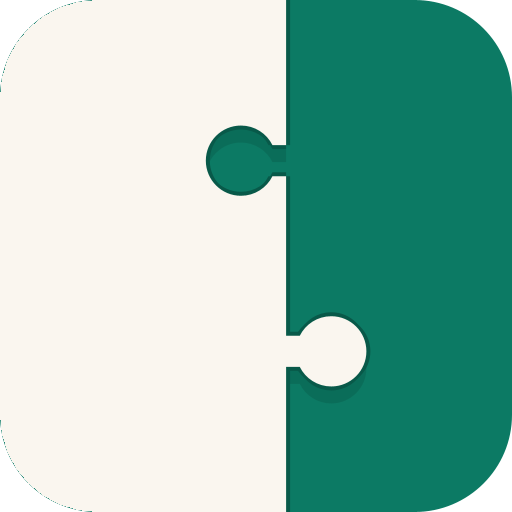
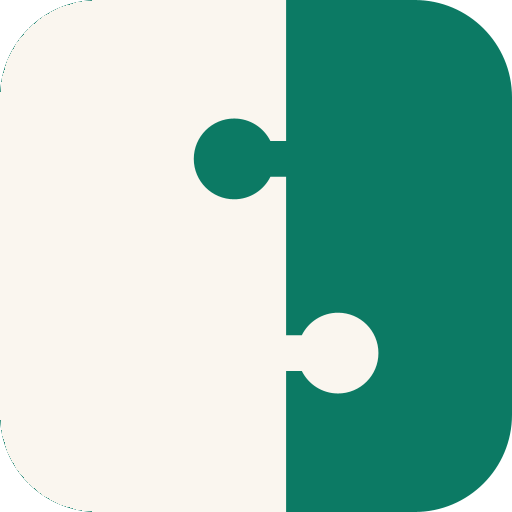
flat seam, bigger equal knobs
Shadow and halo passes removed so white matches flat green. Both knobs at scale 1.15 with equal gaps kept exact by formula consts. Probes green.

Changed region(s): [[0.375, 0.0, 0.75, 1.0]]

diff --git a/tools/src/main/kotlin/io/github/muntasimulhaque/puzzlet/tools/MakeIcons.kt b/tools/src/main/kotlin/io/github/muntasimulhaque/puzzlet/tools/MakeIcons.kt
@@ -1,6 +1,5 @@
 package io.github.muntasimulhaque.puzzlet.tools
 
-import java.awt.AlphaComposite
 import java.awt.Color
 import java.awt.Graphics2D
 import java.awt.RenderingHints
@@ -53,17 +52,19 @@ object IconDesign {
 
     /**
      * The seam, unit space: boundary x, hero knob cy, socket cy. Both
-     * knobs share one size, and the three gaps read equal: tile top to
-     * socket head, socket head to knob head, knob head to tile bottom.
+     * knobs share one size and one scale, and the three gaps read equal:
+     * tile top to socket head, socket head to knob head, knob head down.
      */
     const val SEAM_X = 0.56
-    const val KNOB_Y = 0.69
-    const val SOCKET_Y = 0.31
     // Green-approved bite numbers, frozen. The white hero is this exact
     // shape mirrored, congruent, so the pair matches by construction.
     const val BITE_W = 0.062
     const val BITE_D = 0.075
     const val BITE_R = 0.070
+    /** Both knobs wear the bite shape at this scale: a little bigger. */
+    const val KS = 1.15
+    const val KNOB_Y = (2.0 + BITE_R * KS) / 3.0
+    const val SOCKET_Y = (1.0 - BITE_R * KS) / 3.0
 }
 
 /**
@@ -72,6 +73,7 @@ object IconDesign {
  */
 fun socketBite(): Area {
     val t = AffineTransform.getTranslateInstance(IconDesign.SEAM_X, IconDesign.SOCKET_Y)
+    t.concatenate(AffineTransform.getScaleInstance(IconDesign.KS, IconDesign.KS))
     return biteUnit().createTransformedArea(t)
 }
 
@@ -84,11 +86,11 @@ private fun biteUnit(): Area {
     return bite
 }
 
-/** The white hero: the green bite mirrored east, congruent. Same shape. */
+/** The white hero: the green bite mirrored east at the same scale. */
 fun heroKnob(): Area {
     val d = IconDesign
     val t = AffineTransform.getTranslateInstance(d.SEAM_X, d.KNOB_Y)
-    t.concatenate(AffineTransform.getScaleInstance(-1.0, 1.0))
+    t.concatenate(AffineTransform.getScaleInstance(-d.KS, d.KS))
     return biteUnit().createTransformedArea(t)
 }
 
@@ -124,8 +126,8 @@ private fun unitTransform(size: Int, span: Double): AffineTransform {
     return t
 }
 
-/** One icon layer: full art tile, bare foreground, or white mono. */
-internal fun paintLayer(size: Int, layer: Layer, cornerFraction: Double): BufferedImage { // flat
+/** One icon layer: flat tile, bare foreground, or white mono. */
+internal fun paintLayer(size: Int, layer: Layer, cornerFraction: Double): BufferedImage {
     val d = IconDesign
     val image = BufferedImage(size, size, BufferedImage.TYPE_INT_ARGB)
     val g = beginIcon(image)
@@ -139,35 +141,19 @@ internal fun paintLayer(size: Int, layer: Layer, cornerFraction: Double): Buffer
     val t = unitTransform(size, span)
     val region = seamRegion().createTransformedArea(t)
     val fillArgb = if (layer == Layer.MONO) d.WHITE else d.PAPER
-    if (layer != Layer.MONO) {
-        val down = maxOf(1, (size * 0.035).toInt())
-        val halo = maxOf(1, (size * 0.008).toInt())
-        val keep = g.composite
-        g.composite = AlphaComposite.getInstance(AlphaComposite.SRC_OVER, 0.4f)
-        g.color = Color(d.DEEP, true)
-        g.translate(0, down)
-        g.fill(region)
-        g.translate(0, -down)
-        g.composite = keep
-        for ((dx, dy) in listOf(halo to 0, -halo to 0, 0 to halo, 0 to -halo)) {
-            g.translate(dx, dy)
-            g.color = Color(d.DEEP, true)
-            g.fill(region)
-            g.translate(-dx, -dy)
-        }
-    }
+    // No shadow on white, per owner: the green carries none, so neither
+    // does the white. The seam reads on paper against teal contrast alone.
     g.color = Color(fillArgb, true)
     g.fill(region)
-    // Flat finish: the halo above already draws every edge.
     g.dispose()
     return image
 }
 
-/** The legacy tile: full art, teal gradient, paper seam, for API 24-25. */
+/** The legacy tile: flat teal, paper seam, for API 24-25. */
 fun legacyIcon(sizePx: Int): BufferedImage =
     paintLayer(sizePx, Layer.TILE, IconDesign.LEGACY_CORNER_FRACTION)
 
-/** One adaptive layer: paper seam on transparency, shadow baked in. */
+/** One adaptive layer: paper seam on transparency, no baked shadow. */
 fun adaptiveLayer(sizePx: Int, pieceArgb: Int): BufferedImage {
     // The monochrome sibling renders the same silhouette in white; the
     // paper argument stays so every caller keeps one shape of call.

diff --git a/tools/src/test/kotlin/io/github/muntasimulhaque/puzzlet/tools/MakeIconsTest.kt b/tools/src/test/kotlin/io/github/muntasimulhaque/puzzlet/tools/MakeIconsTest.kt
@@ -45,15 +45,16 @@ class MakeIconsTest {
     }
 
     /** Head centres derived from the generator consts, never hardcoded. */
-    private fun knobHeadX() = IconDesign.SEAM_X + IconDesign.BITE_D + 0.015
-    private fun socketHeadX() = IconDesign.SEAM_X - IconDesign.BITE_D - 0.015
+    private fun knobHeadX() = IconDesign.SEAM_X + (IconDesign.BITE_D + 0.015) * IconDesign.KS
+    private fun socketHeadX() = IconDesign.SEAM_X - (IconDesign.BITE_D + 0.015) * IconDesign.KS
 
     @Test
     fun `both knobs share one size and equal gaps to each other and the edges`() {
         val d = IconDesign
-        val top = d.SOCKET_Y - d.BITE_R
-        val mid = d.KNOB_Y - d.SOCKET_Y - 2 * d.BITE_R
-        val bottom = 1.0 - d.KNOB_Y - d.BITE_R
+        val r = d.BITE_R * d.KS
+        val top = d.SOCKET_Y - r
+        val mid = d.KNOB_Y - d.SOCKET_Y - 2 * r
+        val bottom = 1.0 - d.KNOB_Y - r
         assertEquals(top, mid, 1e-9)
         assertEquals(mid, bottom, 1e-9)
     }

diff --git a/AGENTS.md b/AGENTS.md
@@ -443,3 +443,5 @@ policy is live at `https://muntasimulhaque.github.io/puzzlet/privacy.html`.
   construction, green untouched.
 - 2026-09-06: Both knobs one size at scale 1.0, gaps pinned equal top,
   middle, and bottom by a new test. No more hero scaling.
+- 2026-09-06: Shadows off white, both knobs up to scale 1.15 with gaps
+  kept exact by formula consts. Fully flat mark, pins green.
